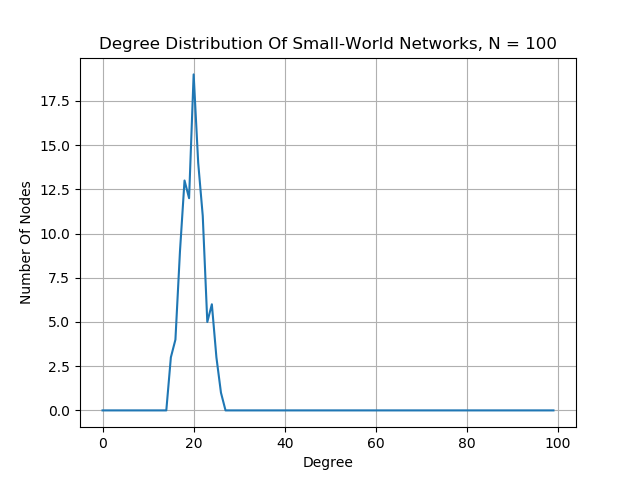
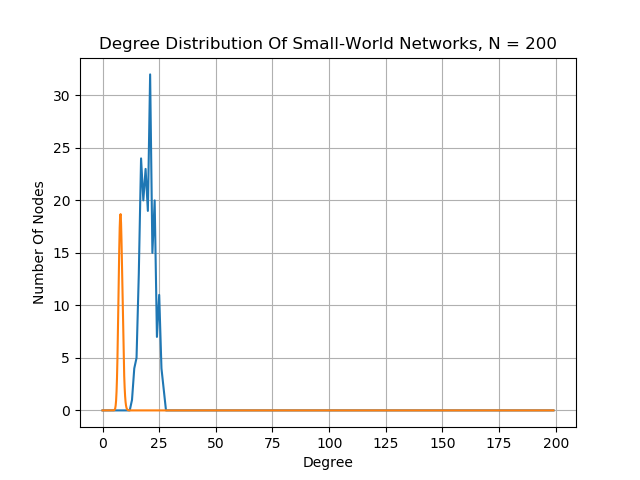
Further changes made to achieve a dirac delta degree distribution for Small World networks.

diff --git a/Small-World Networks - Degree Distribution.py b/Small-World Networks - Degree Distribution.py
@@ -16,49 +16,38 @@ from SupportingFunctions import Input_Output_Support_Functions as IO
 # size.
 #------------------------------------------------------------------------------------------
 
-N = 100
+N = 200
 averageDegree = 20
-probability = 0.5
+probability = 0.6
+
+#G = nx.watts_strogatz_graph(N, averageDegree, probability)
+#plt.figure()
+#nx.draw(G)
+#plt.show()
 
 adjacencyMatrix =  nx.to_numpy_matrix(  nx.watts_strogatz_graph(N, averageDegree, probability)  )
 degreeDistribution = Distribution_Analysis_Functions.DegreeDistributionData(adjacencyMatrix)
 
+fileDestination = 'NetworkTypes/SmallWorld_Network/DegreeDistribution (N = ' + str(N) + ', P0 = ' + str(averageDegree) + ', p = ' + str(probability) + ')'
+IO.WritePlottingDataToTxtFile(fileDestination, 'Degree', degreeDistribution[0,:], 'Number Of Nodes', degreeDistribution[1,:])
+
 plt.figure("Small-World Networks - Degree Distribution")
 plt.plot(degreeDistribution[0, :], degreeDistribution[1, :])
 
-'''
-estimatedGammaValue = -3
+
 
 popt, pcov = curve_fit(
-                        Distribution_Analysis_Functions.ExponentialTail,
+                        Distribution_Analysis_Functions.DiracDeltaFunction,
                         degreeDistribution[0, :],
                         degreeDistribution[1, :],
-                        estimatedGammaValue)
+                        (averageDegree, probability))
 
-array1 = np.log(degreeDistribution[0,1:])
-array2 = np.log(degreeDistribution[1, 1:])
-for i in range(len(degreeDistribution)):
-    if (np.isfinite(array1[i]) == False):    array1[i] = 0
-    if (np.isfinite(array2[i]) == False):    array2[i] = 0
+print ('Fitted Number Of Neighboring Nodes = ' + str(popt[0]))
+print ('Fitted Probability = ' + str(popt[1]))
 
-array1 = np.nan_to_num(np.log(degreeDistribution[0, :]))
-array2 = np.nan_to_num(np.log(degreeDistribution[1, :]))
-estimatedGammaValue = -3
-estimatedIntercept = 0
-popt, pcov = curve_fit(
-                        Distribution_Analysis_Functions.StraightLine,
-                        array1,
-                        array2,
-                        estimatedGammaValue,
-                        estimatedIntercept)
+jArray = np.linspace(degreeDistribution[0,0], degreeDistribution[0, -1], 1000)
+plt.plot(jArray, N * Distribution_Analysis_Functions.DiracDeltaFunction(jArray, popt[0], popt[1]))
 
-newDegreeArray = np.linspace(0, N, 1000)
-#popt[0] = estimatedGammaValue
-
-plt.plot(newDegreeArray, N*Distribution_Analysis_Functions.ExponentialTail(newDegreeArray, popt[0]))
-
-print(popt[0])
-'''
 
 plt.grid()
 plt.xlabel('Degree')
@@ -66,20 +55,6 @@ plt.ylabel('Number Of Nodes')
 plt.title('Degree Distribution Of Small-World Networks, N = ' + str(N))
 plt.savefig("NetworkTypes/SmallWorld_Network/Small-World Networks - Degree Distribution.png")
 
-
-
-'''
-plt.figure("Scale-Free Networks - LogLog Degree Distribution")
-plt.loglog(degreeDistribution[0, :], degreeDistribution[1, :], 'o')
-
-newDegreeArray(0, np.log(N), 1000)
-plt.plot(newDegreeArray, N *Distribution_Analysis_Functions.StraightLine(newDegreeArray, popt[0], popt[1]))
-
-plt.xlabel('Degree')
-plt.ylabel('Number Of Nodes')
-plt.title('Log-Log Degree Distribution Of Scale-Free Networks, N = ' + str(N))
-plt.savefig("Scale-Free Networks - LogLog Degree Distribution.png")
-'''
 
 #------------------------------------------------------------------------------------------
 # This section produces a fit for various small-world networks.

diff --git a/SupportingFunctions/Distribution_Analysis_Functions.py b/SupportingFunctions/Distribution_Analysis_Functions.py
@@ -1,6 +1,8 @@
-import scipy
+import scipy.misc
+import scipy.special
 import math as m
 import numpy as np
+import decimal
 
 from SupportingFunctions import Network_Analysis_Functions
 
@@ -50,6 +52,43 @@ def LogCurve(xArray, coefficient):
     return coefficient*(np.log(xArray))
 
 
-def DiracDeltaFunction():
+def DiracDeltaFunction(degreeArray, k, p):
 
+    # j = degree array
+    # k = number of neighbouring nodes.
+    # n = summation index
+    # p = probability
+
+
+
+    returnArray = np.zeros(len(degreeArray))
+
+    for j in range(len(degreeArray)):
+
+        if j < k: 
+            returnArray[j] = 0
+        else:
+
+            #
+            summation = 0
+            summationLimit = np.min((j - k, k))
+
+            for n in range(int(summationLimit)):
+
+                binomialCoefficient = scipy.misc.comb(k, n)
+
+                decimal.getcontext().prec = 100
+
+
+                numerator = (( decimal.Decimal(p*k)  )**(  decimal.Decimal(j - k - n)  ))
+                denominator = decimal.Decimal(m.factorial(int(j - k - n)))
+
+                fraction = decimal.Decimal(numerator) / decimal.Decimal(denominator)
+
+                summation += decimal.Decimal(  binomialCoefficient * ((1 - p)**n) * (p**(k - n))   ) * fraction *    decimal.Decimal(  np.exp(-1*p*k)  )
     
+            returnArray[j] = summation
+
+    return returnArray
+
+
